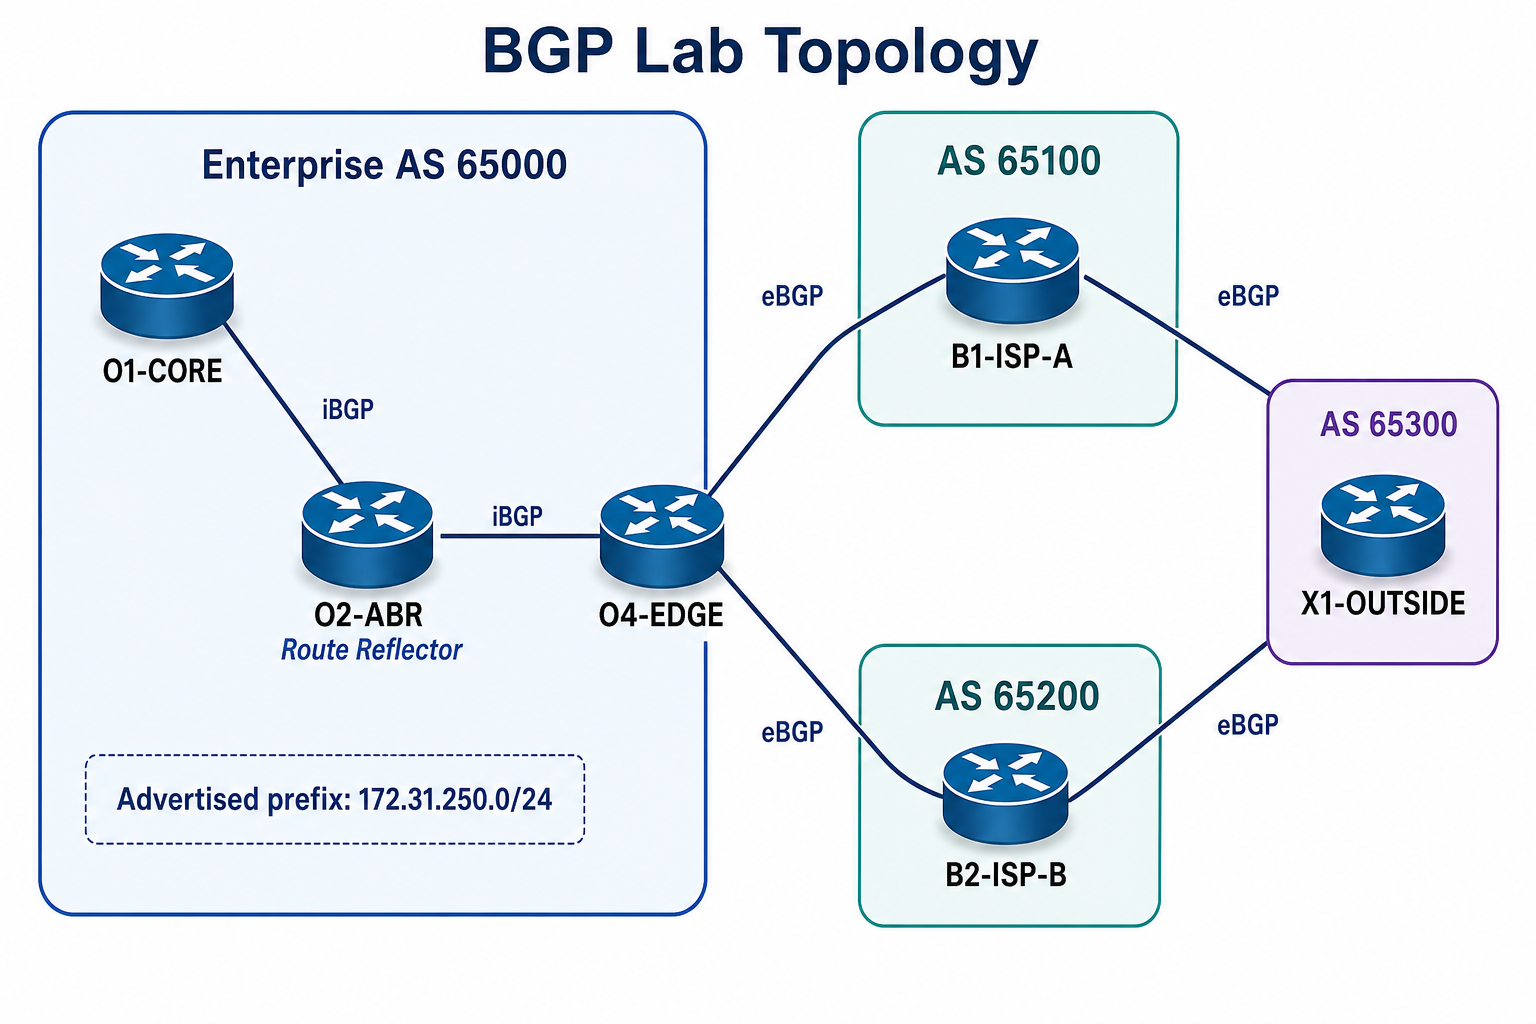
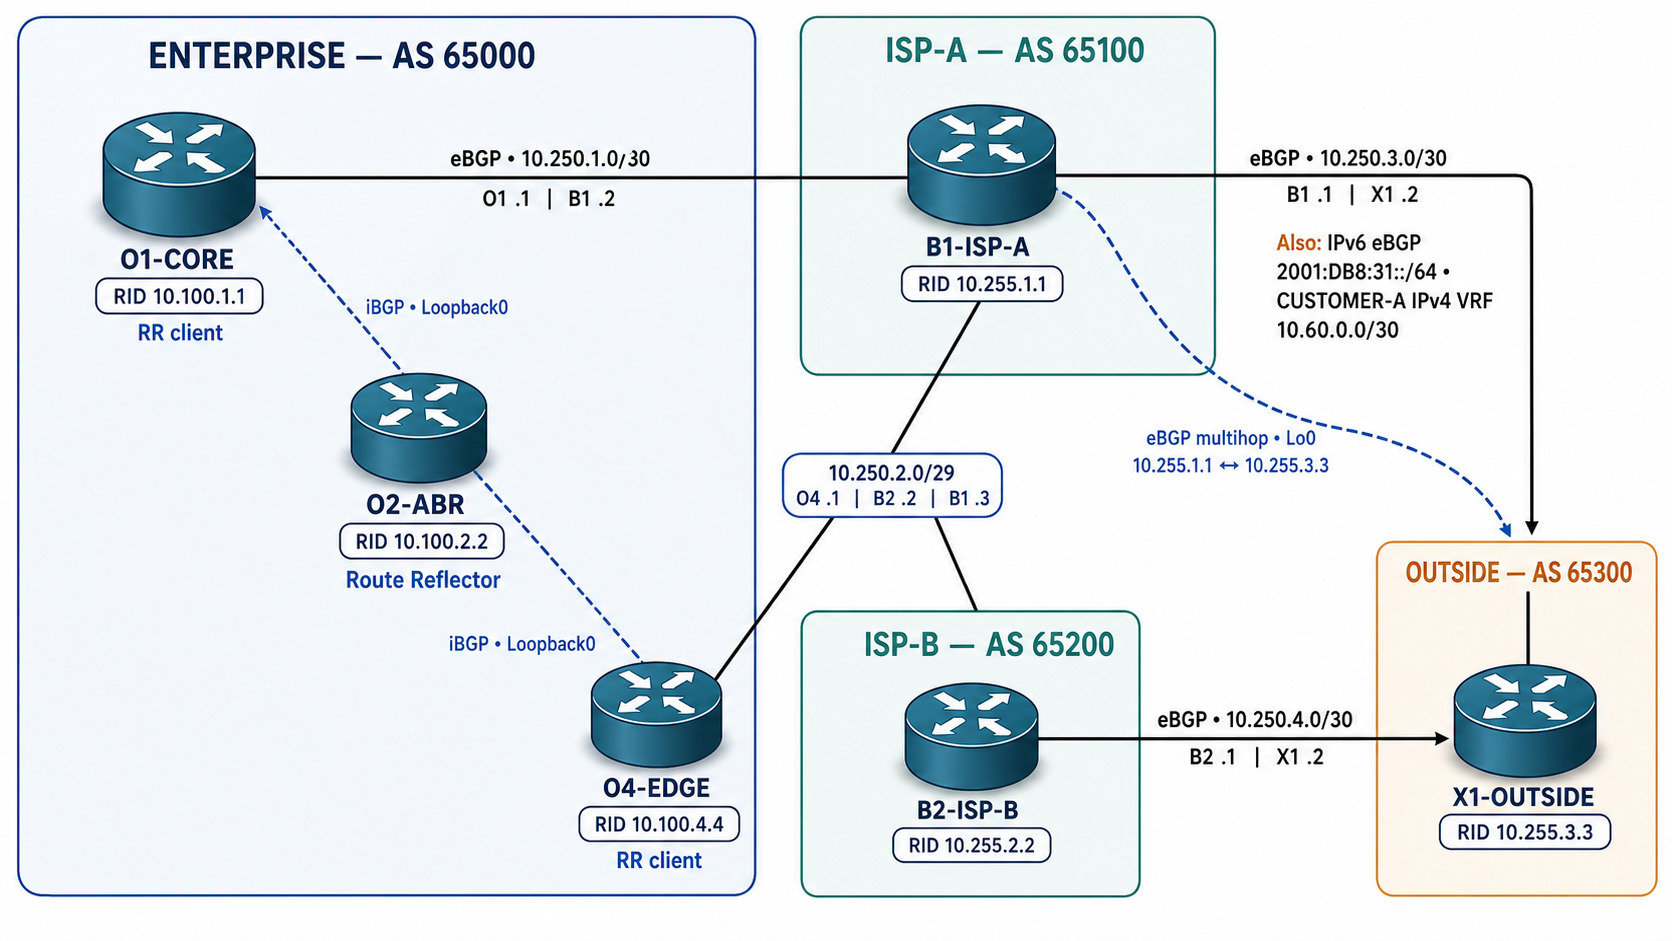
Finalize BGP portfolio documentation

Changed region(s): [[0.0, 0.0, 1.0, 0.9554], [0.2188, 0.3082, 0.3125, 0.339]]

diff --git a/03-BGP/README.md b/03-BGP/README.md
@@ -1,109 +1,43 @@
-# BGP Enterprise Edge and Path-Selection Lab
+# BGP — Multi-AS Routing, Policy, and Troubleshooting
 
-## Overview
+This lab implements a multi-AS BGP environment that combines enterprise route reflection with redundant external connectivity. It demonstrates IPv4 unicast BGP, iBGP route reflection, conventional eBGP, eBGP multihop, IPv6 peering, and an IPv4 VRF customer example—then validates the healthy control and forwarding planes and documents three focused break/fix scenarios.
 
-This lab implements a multi-autonomous-system Border Gateway Protocol (BGP) topology with an enterprise network, two upstream Internet service providers, and an external network. It demonstrates practical internal BGP (iBGP), external BGP (eBGP), route reflection, controlled prefix advertisement, policy enforcement, and BGP path-selection validation in a design representative of an enterprise edge.
+![BGP lab topology](topology.png)
 
-## Lab Objectives
+## Architecture
 
-- Establish iBGP and eBGP neighbor relationships across a multi-AS topology.
-- Use a route reflector to distribute BGP routes within the enterprise.
-- Advertise the enterprise prefix `172.31.250.0/24` using exact BGP `network` statement behavior.
-- Influence inbound and outbound routing with BGP attributes and route policy.
-- Verify both control-plane path selection and data-plane forwarding.
-- Build a repeatable foundation for real break/fix troubleshooting case studies.
+The enterprise runs AS 65000 across **O1-CORE**, **O2-ABR**, and **O4-EDGE**. O2 (router ID `10.100.2.2`) is the route reflector; O1 (`10.100.1.1`) and O4 (`10.100.4.4`) are RR clients. These iBGP sessions use Loopback0 addresses and `update-source Loopback0`.
 
-## Topology
+External reachability is deliberately redundant:
 
-![BGP enterprise edge topology](topology.png)
+- O1 peers with **B1-ISP-A** (AS 65100) on `10.250.1.0/30`.
+- O4 peers with both **B2-ISP-B** (AS 65200) and B1 on the shared `10.250.2.0/29` segment.
+- B1 peers with **X1-OUTSIDE** (AS 65300) using direct IPv4 and loopback-based eBGP multihop sessions. The same B1–X1 path also carries IPv6 eBGP and a CUSTOMER-A IPv4 VRF session.
+- B2 peers directly with X1 on `10.250.4.0/30`.
 
-The topology places three enterprise routers in Autonomous System (AS) 65000 behind a dual-provider edge. O4-EDGE connects to B1-ISP-A in AS 65100 and B2-ISP-B in AS 65200. Both provider autonomous systems connect to X1-OUTSIDE in AS 65300.
+This design makes BGP path selection, next-hop behavior, route reflection, redundancy, and policy effects visible without obscuring them behind unnecessary underlay detail.
 
-## Device and AS Roles
+## Routing and policy highlights
 
-| Device | AS | BGP Router ID | Role |
-|---|---:|---|---|
-| O1-CORE | 65000 | `10.100.1.1` | Enterprise core and iBGP peer |
-| O2-ABR | 65000 | `10.100.2.2` | Enterprise iBGP route reflector with clients |
-| O4-EDGE | 65000 | `10.100.4.4` | Enterprise eBGP edge connected to both providers |
-| B1-ISP-A | 65100 | — | Upstream provider A |
-| B2-ISP-B | 65200 | — | Upstream provider B |
-| X1-OUTSIDE | 65300 | — | External network connected to both upstream autonomous systems |
+- O2 originates `172.31.250.0/24`, B1 originates `172.31.251.0/24`, and B2 originates `203.0.113.0/24`; each network statement is supported by an exact static route to Null0.
+- X1 aggregates `192.0.2.0/24` from more-specific routes with `summary-only`, originates `198.51.100.0/24`, and redistributes `10.50.50.0/24` through the `STATIC-REDIST` route-map.
+- Toward B1's direct session, X1 tags `198.51.100.0/24` with community `65300:100`; B1 matches that community and lowers Local Preference to 50.
+- Toward B1's loopback multihop session, X1 advertises the same prefix with `no-export`.
 
-O1-CORE and O2-ABR use iBGP. O2-ABR operated as a route reflector with clients in the completed lab, while O4-EDGE provided the enterprise's eBGP connectivity to both upstream providers.
+The configurations also retain selected prefix-lists and route-maps from study exercises. Objects that were present but not attached to a neighbor or redistribution process in the captured running state are lab artifacts—not claimed here as active baseline policy.
 
-## Key BGP Concepts Practiced
+## Verification
 
-- iBGP and eBGP session establishment
-- Route-reflector operation and client relationships
-- Exact BGP `network` advertisement behavior, including the requirement for a matching route in the routing table
-- BGP best-path analysis and attribute comparison
-- Local Preference for influencing outbound enterprise path selection
-- AS-PATH prepending for influencing remote inbound path selection
-- Multi-Exit Discriminator (MED) manipulation
-- Origin-code evaluation
-- Prefix lists and route maps
-- Inbound and outbound neighbor policy
-- Control-plane and data-plane validation
+The [verification guide](verification/) organizes healthy-state checks for neighbor establishment, the BGP table, policy attributes, and forwarding. The evidence emphasizes both control-plane correctness and route installation rather than treating an Established session alone as proof of end-to-end health.
 
-## Policy and Path-Selection Exercises
+## Troubleshooting
 
-The lab used `172.31.250.0/24` as the enterprise prefix for advertisement and policy exercises. Local Preference, AS-PATH length, MED, and Origin code were examined and modified to observe their effects on the selected BGP path.
+The [troubleshooting case studies](troubleshooting/) document three reproducible failures and their recovery:
 
-A specific outbound policy on O4-EDGE matched the enterprise prefix and prepended AS 65000 twice when advertising it toward B2-ISP-B:
+- **Wrong remote AS / Bad Peer AS** — corrected an eBGP adjacency failure caused by a mismatched neighbor AS.
+- **iBGP next-hop reachability (`next-hop-self`)** — restored a reachable next hop while redundant paths preserved service.
+- **Route-map implicit deny** — recovered unintentionally filtered advertisements by adding the required catch-all permit.
 
-```cisco
-ip prefix-list ENTERPRISE-PREPEND permit 172.31.250.0/24
+## Configurations
 
-route-map PREPEND-TO-B2 permit 10
- match ip address prefix-list ENTERPRISE-PREPEND
- set as-path prepend 65000 65000
-
-route-map PREPEND-TO-B2 permit 20
-```
-
-The later permit sequence allows routes not matched by the prefix-specific sequence to continue through the route map. This exercise reinforced that a prefix list identifies which routes match, while the route map determines the policy action and whether unmatched routes are permitted or denied. The policy was applied outbound toward B2 so that advertisements of `172.31.250.0/24` carried the additional AS-PATH entries.
-
-## Verification Strategy
-
-Verification combined routing-state inspection with forwarding tests:
-
-- Confirmed BGP neighbor establishment and address-family state.
-- Inspected advertised and received prefixes where appropriate.
-- Compared available paths, BGP attributes, and the installed best path.
-- Validated route-map and prefix-list matches in the intended direction.
-- Rechecked path selection after each policy change.
-- Used traceroute to confirm that actual forwarding followed the expected provider path.
-
-This approach distinguishes a successful BGP control-plane change from successful end-to-end data-plane behavior.
-
-## Troubleshooting Focus
-
-The lab emphasized systematic validation of neighbor state, exact prefix origination, policy direction, route-map sequencing, prefix-list matching, attribute changes, best-path selection, and forwarding behavior.
-
-Detailed troubleshooting case-study files are intentionally not included yet. They will be added under `troubleshooting/` only as real break/fix scenarios are performed, validated, and documented.
-
-## Repository Structure
-
-```text
-03-BGP/
-├── README.md
-├── topology.png
-├── configs/
-├── verification/
-└── troubleshooting/
-```
-
-- `configs/` — device configurations from the completed lab
-- `verification/` — captured BGP state, path-selection evidence, and forwarding validation
-- `troubleshooting/` — future case studies based on completed break/fix testing
-
-## Skills Demonstrated
-
-- Designing and operating a multi-AS BGP topology
-- Configuring enterprise iBGP, eBGP, and route reflection
-- Implementing prefix-specific routing policy with prefix lists and route maps
-- Manipulating BGP attributes to influence inbound and outbound traffic paths
-- Interpreting BGP best-path decisions
-- Validating routing policy through show-command evidence and traceroute
-- Documenting enterprise routing work clearly for technical review
+The [device configurations](configs/) contain the captured router configurations for O1-CORE, O2-ABR, O4-EDGE, B1-ISP-A, B2-ISP-B, and X1-OUTSIDE. They are the authoritative source for interface-level and address-family detail; the topology intentionally focuses on BGP relationships.
